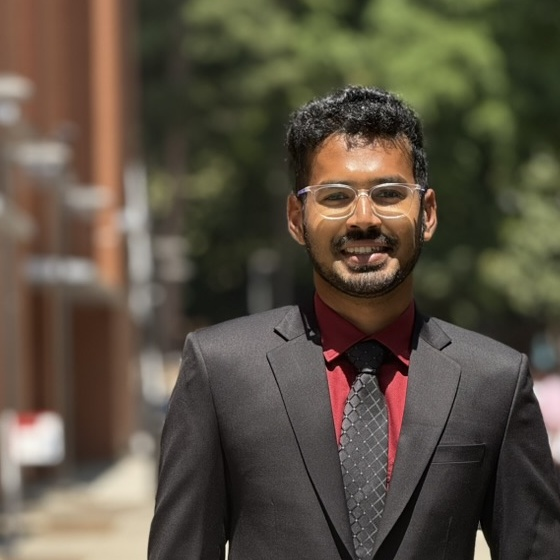
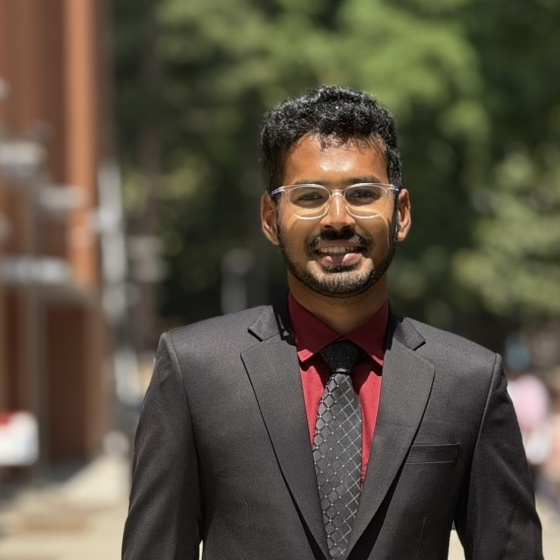
Remove duotone filter from hero photo, recenter crop on face
The duotone/grayscale treatment was unwanted. Re-crop the photo shifted
right in the source frame so the face sits centered in the circular
photo, and drop the filter + hover-color-reveal overlay entirely.

diff --git a/src/sections/HeroSection.tsx b/src/sections/HeroSection.tsx
@@ -32,13 +32,12 @@ export default function HeroSection() {
     >
       <div className="flex flex-col md:flex-row items-center md:items-start gap-10 md:gap-16">
         <div ref={photoRef} className="flex-shrink-0 order-1 md:order-2 mx-auto">
-          <div className="group relative w-[160px] h-[160px] sm:w-[200px] sm:h-[200px] rounded-full overflow-hidden border-2 border-[var(--green)] shadow-[0_0_0_6px_var(--green-tint)]">
+          <div className="relative w-[160px] h-[160px] sm:w-[200px] sm:h-[200px] rounded-full overflow-hidden border-2 border-[var(--green)] shadow-[0_0_0_6px_var(--green-tint)]">
             <img
               src="./assets/portrait-about.jpg"
               alt="Sachin Kanth"
-              className="w-full h-full object-cover grayscale-[85%] contrast-125 brightness-90 saturate-[0.75] transition-all duration-500 group-hover:grayscale-0 group-hover:brightness-100 group-hover:saturate-100 group-hover:contrast-100"
+              className="w-full h-full object-cover"
             />
-            <div className="absolute inset-0 bg-gradient-to-br from-[var(--navy)]/50 via-transparent to-[var(--green)]/50 mix-blend-color opacity-100 group-hover:opacity-0 transition-opacity duration-500 pointer-events-none" />
           </div>
         </div>
 
